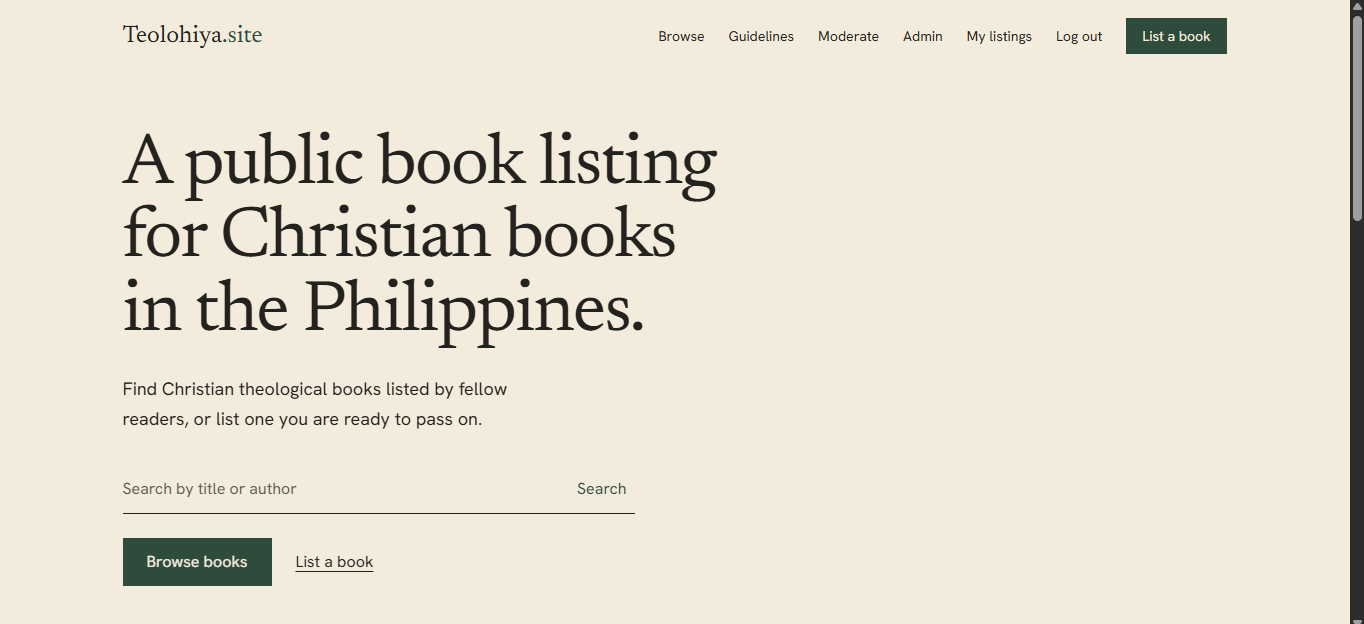
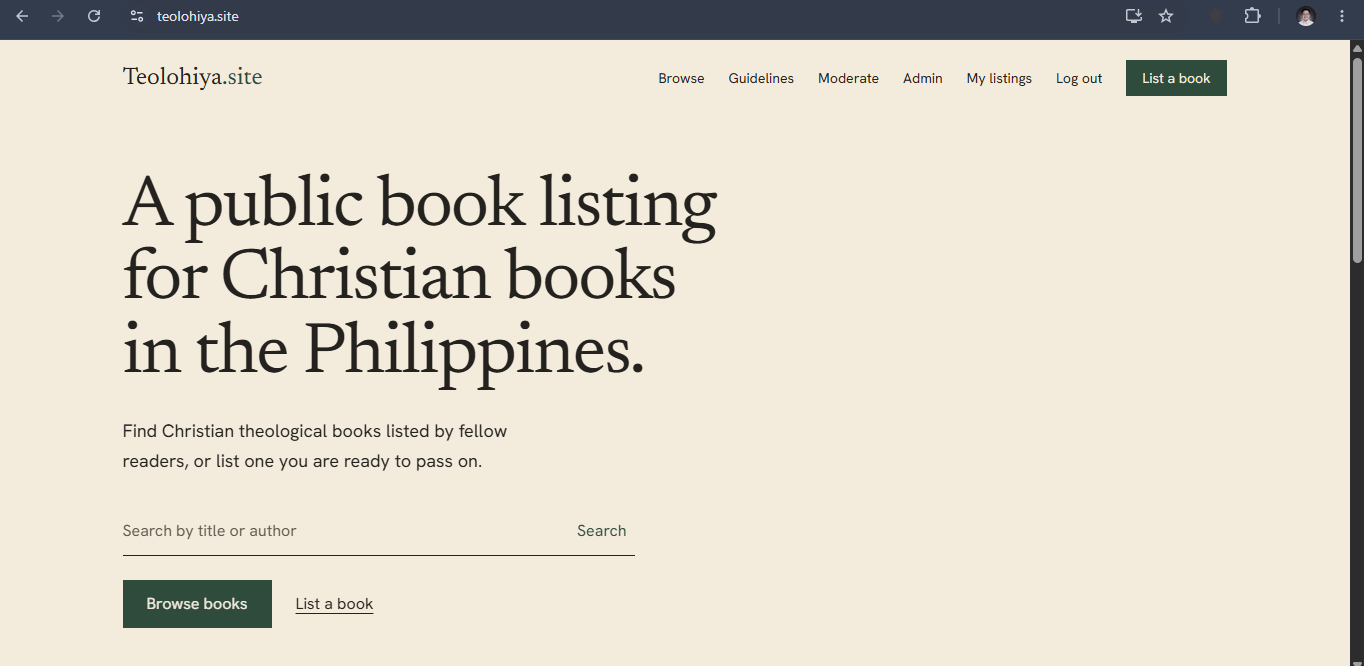
Add files via upload

diff --git a/README.md b/README.md
@@ -32,12 +32,14 @@ This project began as hands-on practice while studying for cloud certifications 
 
 | Experience | Capabilities |
 | --- | --- |
-| **Visitors** | Browse approved books, search and filter listings, view book photos, visit seller profiles, and report listings |
+| **Visitors** | Browse approved books, search and filter listings, view book photos, view seller details, and report listings |
 | **Members** | Sign up with Cognito; create and manage listings; upload up to five photos; track review status and resubmit rejected listings |
 | **Moderators** | Review pending listings and photos, approve or reject with reasons, handle reports, and remove listings |
-| **Admins** | Manage moderator permissions, search users, inspect audit logs, and perform logged administrative reviews |
+| **Admins** | Find registered users, manage moderator permissions, review reports, inspect audit logs, and perform logged administrative reviews |
 
 ### Product preview
+
+Real screenshots from the live application (browser chrome cropped in future updates if desired). The admin screenshot has its account email redacted.
 
 <table>
 <tr>
@@ -49,6 +51,23 @@ This project began as hands-on practice while studying for cloud certifications 
 <td align="center"><sub>Categories and recent listings</sub></td>
 </tr>
 </table>
+
+### More of the application
+
+<table>
+<tr>
+<td width="50%"><img src="docs/media/book-details.png" alt="Book detail page with photos, price, condition and seller contact" /></td>
+<td width="50%"><img src="docs/media/list-a-book.png" alt="Create a book listing form with category, condition, location and contact fields" /></td>
+</tr>
+<tr><td align="center"><sub>Book details and direct seller contact</sub></td><td align="center"><sub>Create a listing</sub></td></tr>
+<tr>
+<td><img src="docs/media/admin-team.png" alt="Admin team management page with account search and role overview" /></td>
+<td><img src="docs/media/community-guidelines.png" alt="Community guidelines covering transactions, safety, copyright and theological standards" /></td>
+</tr>
+<tr><td align="center"><sub>Admin team and role management</sub></td><td align="center"><sub>Community guidelines and safety</sub></td></tr>
+</table>
+
+**End-to-end flow:** A member lists a book → staff reviews the submission → approved books become publicly discoverable → readers view photos and contact the seller directly. Transactions happen outside Teolohiya.site.
 
 ## Architecture
 
@@ -80,7 +99,7 @@ Teolohiya.site is deployed in **AWS Asia Pacific (Singapore), `ap-southeast-1`**
 | **AWS Amplify Hosting (Gen 2)** | Hosts the Next.js application, connects GitHub deployments, and manages the application backend infrastructure. |
 | **Amazon CloudFront** | Delivers the hosted website through a content delivery network managed by Amplify. |
 | **AWS Certificate Manager (ACM)** | Provides the TLS certificate for HTTPS on the custom domain. |
-| **Amazon Cognito** | Handles email sign-in, user identities, moderator/admin groups, and role-based access. |
+| **Amazon Cognito** | Handles registration and email sign-in, user identities, moderator/admin groups, and role-based access. |
 | **AWS AppSync** | Exposes the GraphQL API used by the frontend for listings and related operations. |
 | **Amazon DynamoDB** | Stores private listings, approved public listings, reports, and moderation audit records. |
 | **Amazon S3** | Stores uploaded book photos, separating pending images from approved images with scoped access. |
